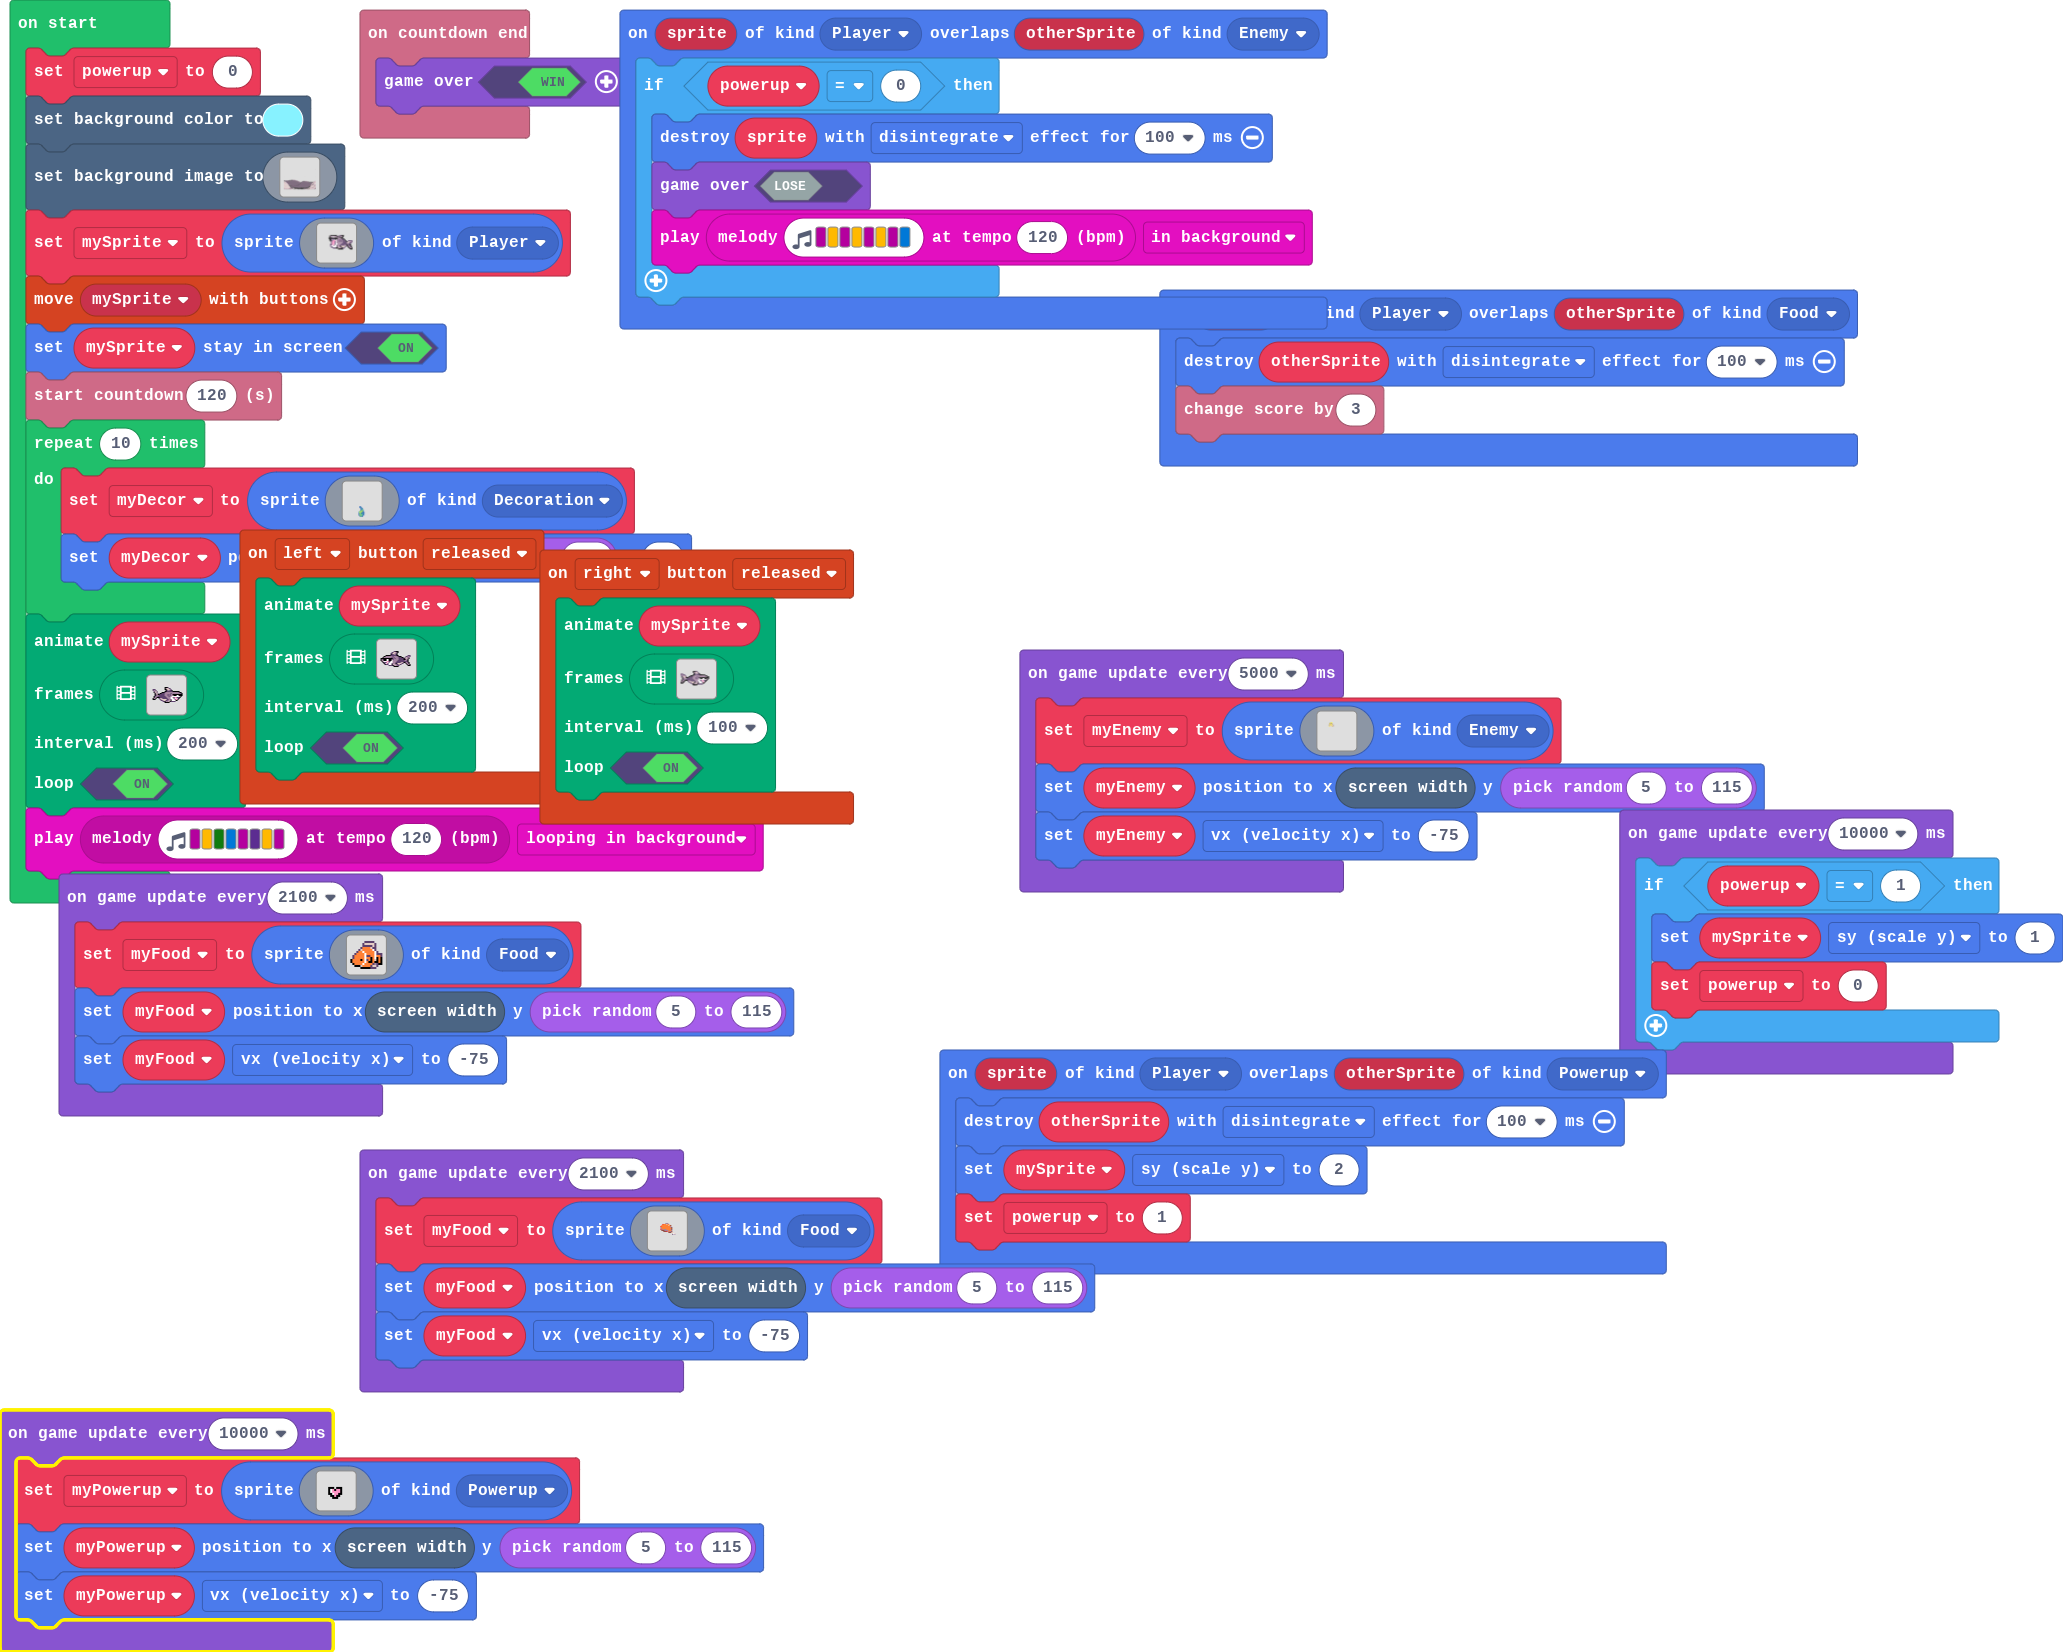
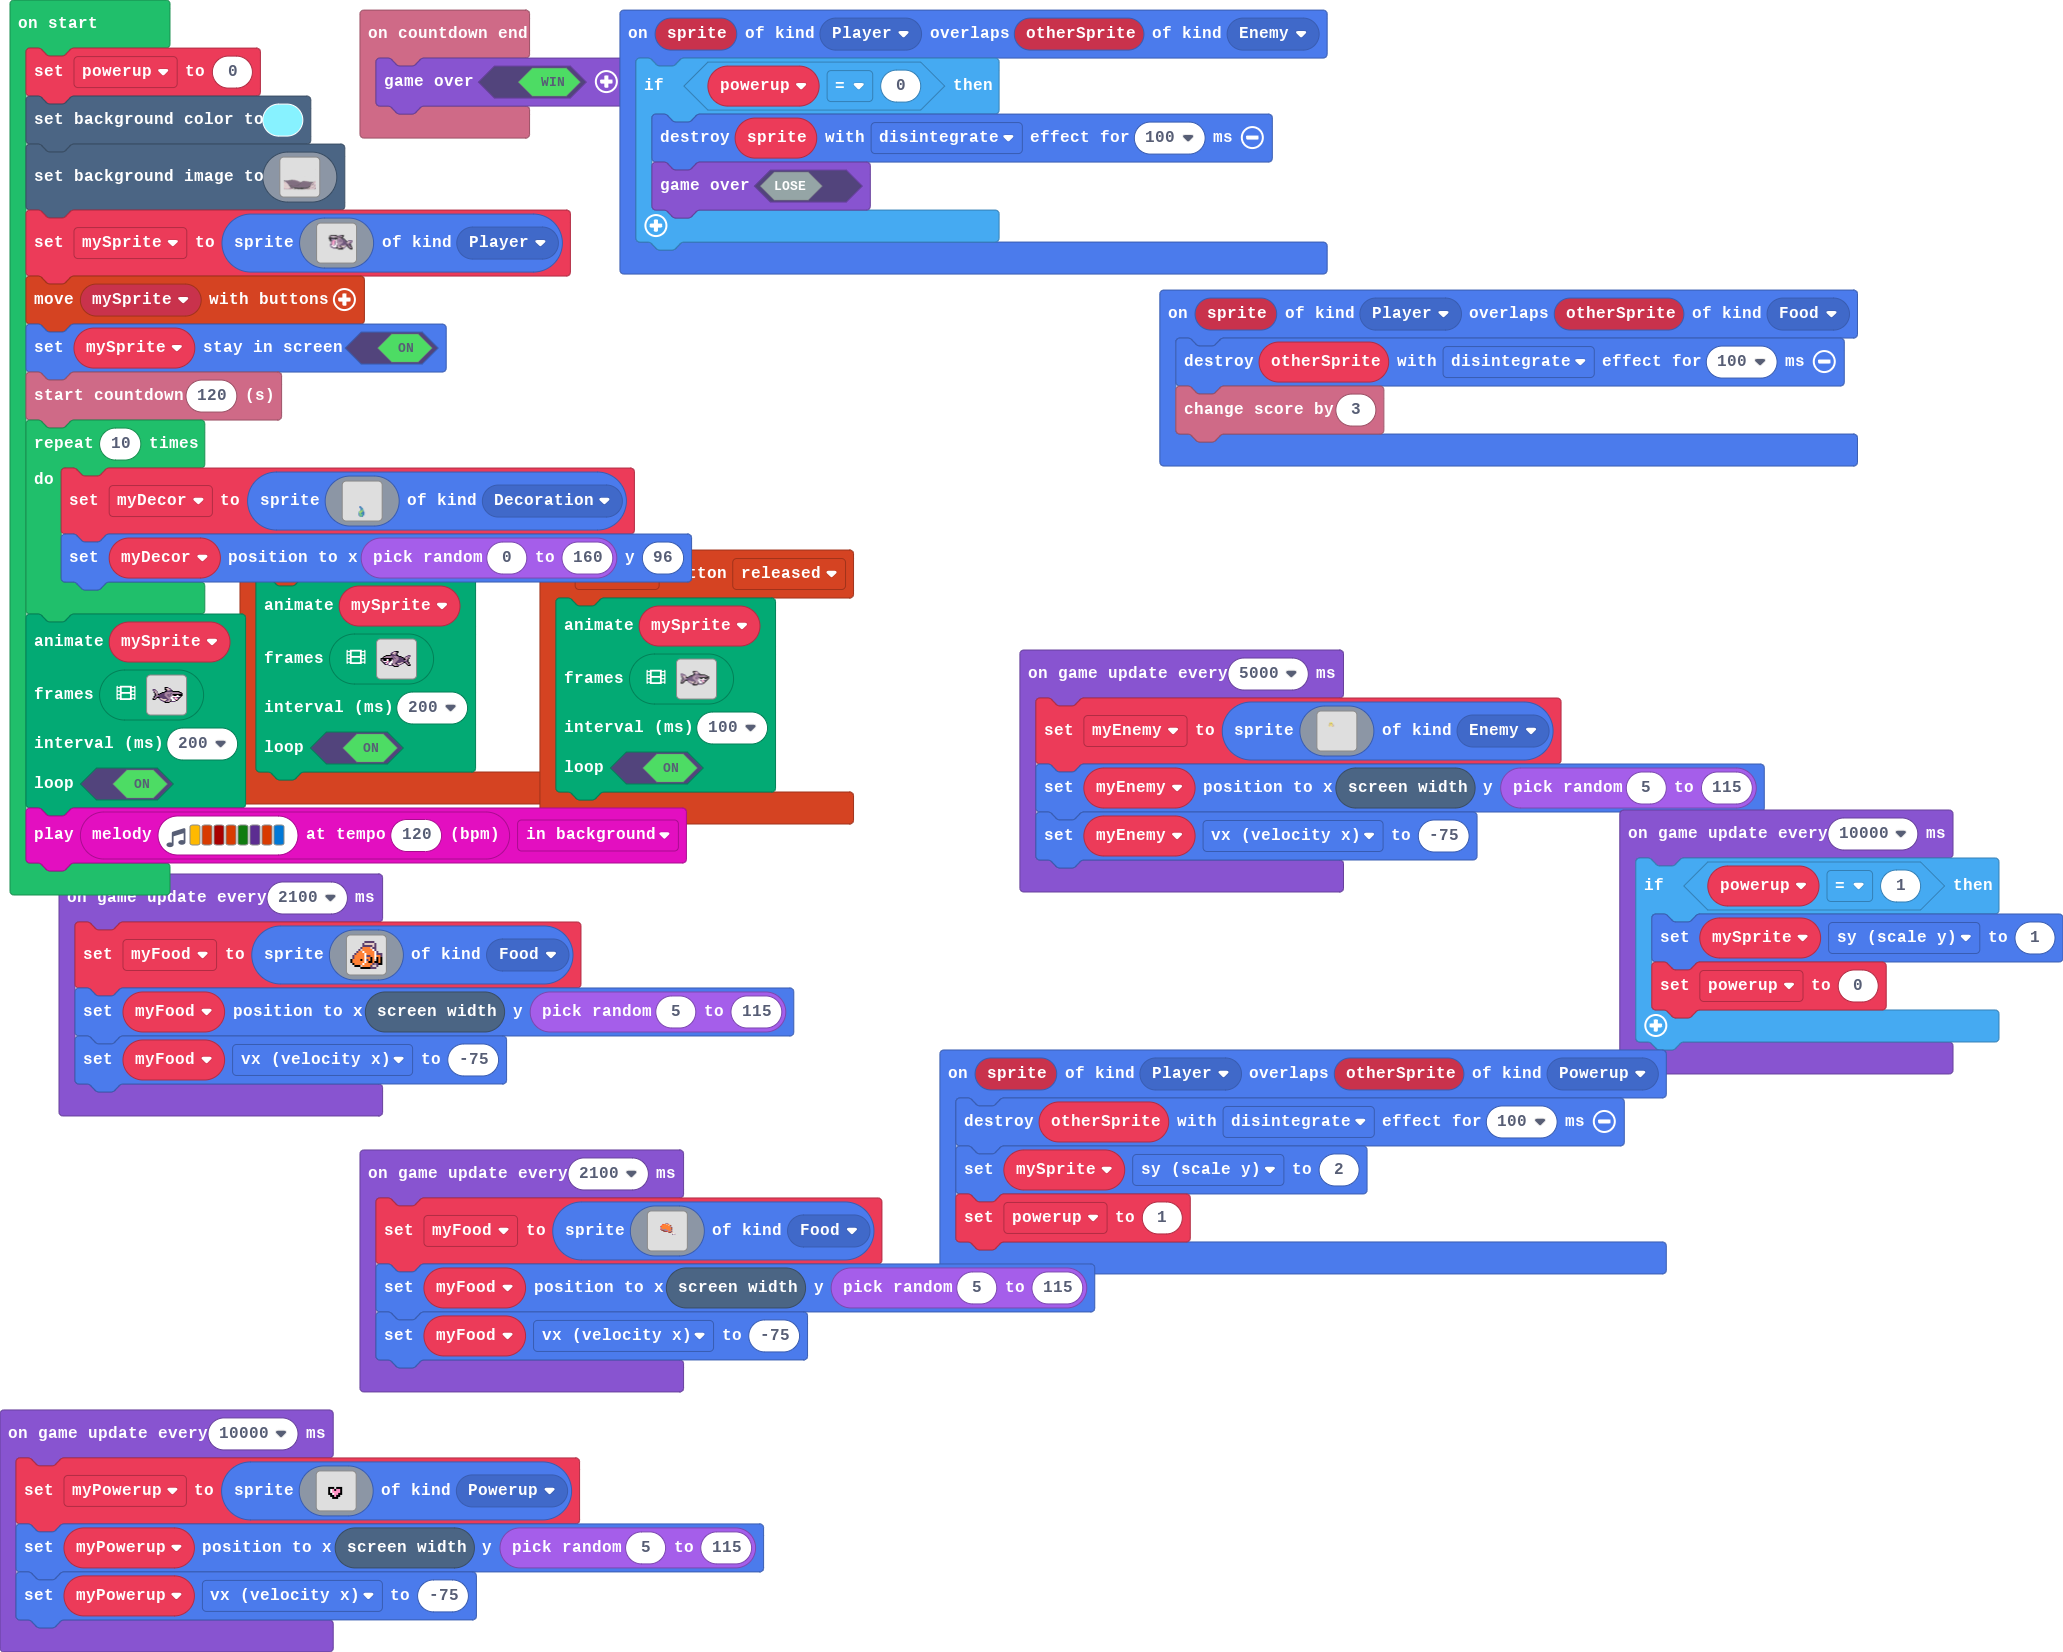
Update main.blocks, main.ts

diff --git a/main.ts b/main.ts
@@ -34,7 +34,6 @@ sprites.onOverlap(SpriteKind.Player, SpriteKind.Enemy, function (sprite, otherSp
     if (powerup == 0) {
         sprites.destroy(sprite, effects.disintegrate, 100)
         game.gameOver(false)
-        music.play(music.stringPlayable("C A C A C A C E ", 120), music.PlaybackMode.InBackground)
     }
 })
 let myPowerup: Sprite = null
@@ -60,7 +59,7 @@ assets.animation`swim right`,
 200,
 true
 )
-music.play(music.stringPlayable("C A G E C D A C ", 120), music.PlaybackMode.LoopingInBackground)
+music.play(music.stringPlayable("A B C5 B G D B E ", 120), music.PlaybackMode.InBackground)
 game.onUpdateInterval(5000, function () {
     myEnemy = sprites.create(img`
         .............................................................................
